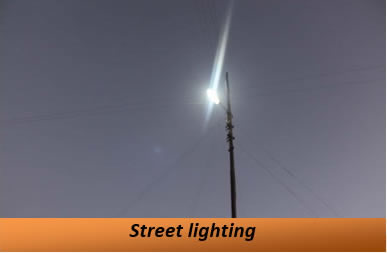
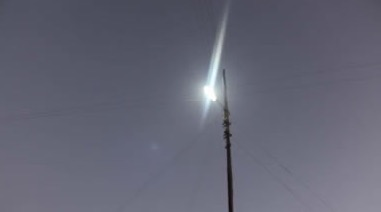
new changes by neped

Changed region(s): [[0.0, 0.0, 1.0, 1.0], [0.4908, 0.1698, 0.6063, 0.7075], [0.6063, 0.7358, 0.6352, 0.7925]]

diff --git a/src/pages/neped-energy/NepedEnergyImpactPage.tsx b/src/pages/neped-energy/NepedEnergyImpactPage.tsx
@@ -51,7 +51,7 @@ const THEMES: { id: string; eyebrow: string; title: string; stat: { value: strin
     stat: { value: "17,930 ha", label: "of arable and non-arable land treated under NEPED-III" },
     paragraphs: [
       "NEPED-III treated 17,930 hectares of arable and non-arable land with soil-erosion control measures, reforestation through natural regeneration, and enrichment planting. These activities also strengthened community biodiversity conservation — a direct bridge between land management and species protection.",
-      "Through the NEPED-SCEN programme (with SACON, funded by the Tata Trust), communities set aside areas within village lands as Community Conserved Areas, with village council resolutions restricting hunting, fishing and logging. NEPED supported the creation of biodiversity registers, resource maps and management plans, using the Blyth's Tragopan — the state bird of Nagaland — as a flagship species.",
+      "Through the NEPED-SCEN programme, communities set aside areas within village lands as Community Conserved Areas, with village council resolutions restricting hunting, fishing and logging. NEPED supported the creation of biodiversity registers, resource maps and management plans, using the Blyth's Tragopan — the state bird of Nagaland — as a flagship species.",
       "This work continues under NEPED-IV / Forest and Biodiversity Management in the Himalaya (Nagaland), funded by Germany through KfW, across 35 villages — strengthening community-conserved areas, improving forest connectivity and supporting sustainable livelihoods.",
     ],
   },
@@ -70,17 +70,6 @@ const THEMES: { id: string; eyebrow: string; title: string; stat: { value: strin
 
 const ROAD_AHEAD: { title: string; text: string; points: string[]; scaleUp: string; cta?: string }[] = [
   {
-    title: "Scale community energy across Nagaland's unelectrified villages",
-    text: "Nagaland has hundreds of villages — many along the Indo-Myanmar border — with no reliable grid connection. NEPeD's Hydroger is a proven, certified, locally manufactured solution. The gap is installation funding and the community-engagement process that makes each unit sustainable.",
-    points: [
-      "Proven technology (3 kW impulse Hydroger)",
-      "Proven ownership model (village energy committee, monthly revenue, local engineers)",
-      "30 new watermills/pico Hydrogers funded by the North Eastern Council (2025–26) — the current pipeline",
-    ],
-    scaleUp: "Move from pico-hydro (3 kW) to community mini-hydro (10–100 kW) in villages with higher-capacity streams, powering not just households but small enterprise clusters.",
-    cta: "Partner on community energy",
-  },
-  {
     title: "Deepen climate-resilient livelihoods and conservation",
     text: "NEPED-IV (Forest and Biodiversity Management, funded by KfW) is already active across 35 villages. The National Adaptation Fund for Climate Change (NAFCC) project runs through 2026. Beyond these, NEPED's three-phase track record in agro-forestry, watershed management and community conservation provides a ready-made platform for the next generation of climate and biodiversity funding.",
     points: [
@@ -91,6 +80,17 @@ const ROAD_AHEAD: { title: string; text: string; points: string[]; scaleUp: stri
     ],
     scaleUp: "Expand the CCA model to new districts, connect conservation with eco-tourism revenue, and strengthen community-based monitoring and reporting systems.",
     cta: "Partner on livelihoods and conservation",
+  },
+  {
+    title: "Scale community energy across Nagaland's unelectrified villages",
+    text: "Nagaland has hundreds of villages — many along the Indo-Myanmar border — with no reliable grid connection. NEPeD's Hydroger is a proven, certified, locally manufactured solution. The gap is installation funding and the community-engagement process that makes each unit sustainable.",
+    points: [
+      "Proven technology (3 kW impulse Hydroger)",
+      "Proven ownership model (village energy committee, monthly revenue, local engineers)",
+      "30 new watermills/pico Hydrogers funded by the North Eastern Council (2025–26) — the current pipeline",
+    ],
+    scaleUp: "Move from pico-hydro (3 kW) to community mini-hydro (10–100 kW) in villages with higher-capacity streams, powering not just households but small enterprise clusters.",
+    cta: "Partner on community energy",
   },
   {
     title: "Grow CERES as a regional renewable-energy hub",

diff --git a/src/pages/neped-energy/CaseStudyDetailPage.tsx b/src/pages/neped-energy/CaseStudyDetailPage.tsx
@@ -4,7 +4,7 @@ import { motion } from "framer-motion";
 import { ArrowLeft, ArrowRight } from "lucide-react";
 import { fadeUpOnView } from "@/lib/motionVariants";
 import { CASE_STUDIES } from "@/data/neped-energy/caseStudiesData";
-import { CASE_STUDY_PHOTOS } from "@/data/neped-energy/caseStudyPhotos";
+import { CASE_STUDY_PHOTOS, type CaseStudyPhoto } from "@/data/neped-energy/caseStudyPhotos";
 import { CASE_STUDY_FIVE_PARTS, type CaseStudyFiveParts } from "@/data/neped-energy/caseStudyFiveParts";
 import { NEPED_ENERGY_PATHS } from "@/routes/paths";
 import { ArrowPillButton } from "@/components/shared/ArrowPillButton";
@@ -71,9 +71,12 @@ export function CaseStudyDetailPage() {
         <motion.section {...fadeUpOnView} className="mx-auto max-w-[1200px] px-4 sm:px-6">
           <div className={`grid grid-cols-1 gap-4 sm:gap-5 ${photos.length > 1 ? "sm:grid-cols-2" : "max-w-[760px]"}`}>
             {photos.map((photo) => (
-              <div key={photo.src} className="overflow-hidden bg-[#F3F6F3] ring-1 ring-black/5">
-                <img src={photo.src} alt={photo.alt} className="aspect-[3/2] h-full w-full object-cover" />
-              </div>
+              <figure key={photo.src}>
+                <div className="overflow-hidden bg-[#F3F6F3] ring-1 ring-black/5">
+                  <img src={photo.src} alt={photo.alt} className="aspect-[3/2] h-full w-full object-cover" />
+                </div>
+                {photo.caption ? <figcaption className="mt-3 text-[15px] text-[#5B6660]">{photo.caption}</figcaption> : null}
+              </figure>
             ))}
           </div>
         </motion.section>
@@ -134,7 +137,7 @@ function PrevNext({ prev, next }: { prev: StudyLink; next: StudyLink }) {
 const EYEBROW = "text-[13px] font-semibold uppercase tracking-[0.14em]";
 
 /** Five-part case study: full-bleed photo hero, stat strip, then the five numbered parts. */
-function FivePartCaseStudy({ data, photos, prevNext }: { data: CaseStudyFiveParts; photos: { src: string; alt: string }[]; prevNext: React.ReactNode }) {
+function FivePartCaseStudy({ data, photos, prevNext }: { data: CaseStudyFiveParts; photos: CaseStudyPhoto[]; prevNext: React.ReactNode }) {
   const energy = data.lineage === "Energy Development";
   return (
     <div className="w-full space-y-16 sm:space-y-24 pb-24">
@@ -236,9 +239,12 @@ function FivePartCaseStudy({ data, photos, prevNext }: { data: CaseStudyFivePart
         <motion.section {...fadeUpOnView} className="mx-auto max-w-[1200px] px-4 sm:px-6">
           <div className={`grid grid-cols-1 gap-4 sm:gap-5 ${photos.length > 1 ? "sm:grid-cols-2" : "max-w-[760px]"}`}>
             {photos.map((photo) => (
-              <div key={photo.src} className="overflow-hidden bg-[#F3F6F3] ring-1 ring-black/5">
-                <img src={photo.src} alt={photo.alt} loading="lazy" className="aspect-[3/2] h-full w-full object-cover" />
-              </div>
+              <figure key={photo.src}>
+                <div className="overflow-hidden bg-[#F3F6F3] ring-1 ring-black/5">
+                  <img src={photo.src} alt={photo.alt} loading="lazy" className="aspect-[3/2] h-full w-full object-cover" />
+                </div>
+                {photo.caption ? <figcaption className="mt-3 text-[15px] text-[#5B6660]">{photo.caption}</figcaption> : null}
+              </figure>
             ))}
           </div>
         </motion.section>

diff --git a/src/pages/neped/NepedStructurePage.tsx b/src/pages/neped/NepedStructurePage.tsx
@@ -80,7 +80,7 @@ export function NepedStructurePage() {
           <div className="bg-[#F3F6F3] p-7 sm:p-10 space-y-6">
             <div>
               <SectionPill>Historical Archive</SectionPill>
-              <h3 className="text-[28px] font-light text-[#1A2E23] tracking-[-0.72px] mt-1">
+              <h3 className="text-[32px] sm:text-[40px] font-light text-[#1A2E23] tracking-[-0.9px] mt-1">
                 Past Team Leaders
               </h3>
             </div>
@@ -88,15 +88,15 @@ export function NepedStructurePage() {
               initialCount={5}
               showLabel="Show all past leaders"
               hideLabel="Show fewer past leaders"
-              className="grid grid-cols-1 lg:grid-cols-2 lg:gap-x-12 gap-y-4 pt-2"
+              className="grid grid-cols-1 lg:grid-cols-2 lg:gap-x-12 gap-y-5 pt-2"
             >
               {teamLeaders.map((lead) => (
                 <div
                   key={lead.name}
-                  className="flex items-center justify-between gap-4 border-b border-[#e5e4e4] pb-3"
+                  className="flex items-center justify-between gap-4 border-b border-[#e5e4e4] pb-4"
                 >
-                  <div className="flex items-center gap-3 min-w-0">
-                    <div className="h-10 w-10 rounded-full bg-[#e5e4e4] overflow-hidden shrink-0 flex items-center justify-center">
+                  <div className="flex items-center gap-4 min-w-0">
+                    <div className="h-14 w-14 sm:h-16 sm:w-16 rounded-full bg-[#e5e4e4] overflow-hidden shrink-0 flex items-center justify-center">
                       {lead.image ? (
                         <img
                           src={lead.image}
@@ -107,17 +107,17 @@ export function NepedStructurePage() {
                           }}
                         />
                       ) : (
-                        <span className="text-[11px] font-medium text-[#5B6660]">
+                        <span className="text-[15px] font-medium text-[#5B6660]">
                           {lead.name.replace(/^(Shri\.?|Late|Padmashree)\s*/i, "").charAt(0)}
                         </span>
                       )}
                     </div>
                     <div className="min-w-0">
-                      <h4 className="text-[15px] font-medium text-[#1A2E23] truncate">{lead.name}</h4>
-                      <span className="text-[12px] text-[#5B6660]">{lead.title}</span>
+                      <h4 className="text-[17px] sm:text-[18px] font-medium text-[#1A2E23] truncate">{lead.name}</h4>
+                      <span className="text-[14px] sm:text-[15px] text-[#5B6660]">{lead.title}</span>
                     </div>
                   </div>
-                  <span className="text-[12px] font-mono text-[#5B6660] shrink-0">{lead.period}</span>
+                  <span className="text-[13px] sm:text-[14px] font-mono text-[#5B6660] shrink-0">{lead.period}</span>
                 </div>
               ))}
             </MobileShowMore>

diff --git a/src/pages/neped/NepedAboutPage.tsx b/src/pages/neped/NepedAboutPage.tsx
@@ -12,7 +12,8 @@ const EYEBROW = "text-[13px] font-semibold uppercase tracking-[0.14em] text-[#1E
 const TIMELINE: { year: string; body: string; logo?: "neped" | "neped-energy" }[] = [
   { year: "Today", body: "One society across livelihoods, land and energy." },
   { year: "2019–present", body: "NEPED-IV / Forest & Biodiversity Management (KfW)." },
-  { year: "2007", body: "Energy Development branch established; CERES set up in Dimapur.", logo: "neped-energy" },
+  { year: "2009", body: "CERES established" },
+  { year: "2007", body: "NEPeD (Energy Development branch established)", logo: "neped-energy" },
   { year: "2006–2012", body: "NEPED-III: watershed development (Min. of Agriculture)." },
   { year: "2001–2006", body: "NEPED-II: cash crops & micro-finance (ICEF/CIDA)." },
   { year: "1995–2000", body: "NEPED-I: tree-planting on jhum land (ICEF/CIDA)." },
@@ -135,7 +136,7 @@ export function NepedAboutPage() {
               The first phase was called Nagaland Environment Protection and Economic Development through People's Action. From the second phase, the society became known as Nagaland Empowerment of People through Economic Development.
             </p>
             <p>
-              As the livelihood work deepened, one need surfaced everywhere: energy. So in 2007 the society established an energy branch — Nagaland Empowerment of People through Energy Development — and set up CERES, its Centre of Excellence for Renewable Energy Studies, in Dimapur. The branch carries its own name and logo, but it is run by the same team, from the same office, under the same Team Leader.
+              As the livelihood work deepened, one need surfaced everywhere: energy. So in 2007 the society established an energy branch — Nagaland Empowerment of People through Energy Development — and in 2009 set up CERES, its Centre of Excellence for Renewable Energy Studies, in Dimapur. The branch carries its own name and logo, but it is run by the same team, from the same office, under the same Team Leader.
             </p>
             <p className="border-t-2 border-[#E8A33D] pt-7 font-serif text-[22px] sm:text-[26px] leading-[1.45] text-[#12432E]">
               The society had extended its reach, but it had not divided. That is why the acronym never changed. Today the 1995 society works across livelihoods, land and energy as a single NEPED, from Nagaland's forests to its rivers.

diff --git a/src/data/neped-energy/caseStudyPhotos.ts b/src/data/neped-energy/caseStudyPhotos.ts
@@ -2,17 +2,31 @@
  * NEPeD case study photos: public/<slug>/ (one folder per case study, added by the NEPeD team).
  * Alt text = the file name. The first photo is the one in front on the case study card.
  */
-export type CaseStudyPhoto = { src: string; alt: string };
+/** caption = text shown under the photo (the caption that was burned into each image, now cropped off) */
+export type CaseStudyPhoto = { src: string; alt: string; caption?: string };
 
-const photo = (slug: string, file: string): CaseStudyPhoto => ({
+const photo = (slug: string, file: string, caption?: string): CaseStudyPhoto => ({
   src: `/${slug}/${file}`,
-  alt: file.replace(/\.[a-z]+$/i, "").replace(/\d+$/, ""),
+  alt: caption ?? file.replace(/\.[a-z]+$/i, "").replace(/\d+$/, ""),
+  caption,
 });
 
 export const CASE_STUDY_PHOTOS: Record<string, CaseStudyPhoto[]> = {
-  kingjung: [photo("kingjung", "Night View of Kingjung Village.jpg"), photo("kingjung", "Street lighting.jpg")],
-  kingpao: [photo("kingpao", "kingpao.jpg"), photo("kingpao", "Rural Engineer after installation.jpg")],
-  pang: [photo("pang", "Villagers transporting hydroger1.jpg")],
-  aniashu: [photo("aniashu", "installation in progress.jpg"), photo("aniashu", "ForebayPond.jpg")],
-  kaha: [photo("kaha", "Villagers transporting hydroger.jpg"), photo("kaha", "Powerhouse.jpg")],
+  kingjung: [
+    photo("kingjung", "Night View of Kingjung Village.jpg", "Night View of Kingjung Village lighted by hydroger"),
+    photo("kingjung", "Street lighting.jpg", "Street lighting"),
+  ],
+  kingpao: [
+    photo("kingpao", "kingpao.jpg", "Kingpao village"),
+    photo("kingpao", "Rural Engineer after installation.jpg", "Rural Engineer after installation"),
+  ],
+  pang: [photo("pang", "Villagers transporting hydroger1.jpg", "Villagers transporting hydroger")],
+  aniashu: [
+    photo("aniashu", "installation in progress.jpg", "Installation in progress"),
+    photo("aniashu", "ForebayPond.jpg", "Desilting/Forebay pond"),
+  ],
+  kaha: [
+    photo("kaha", "Villagers transporting hydroger.jpg", "Villagers transporting hydroger"),
+    photo("kaha", "Powerhouse.jpg", "Powerhouse"),
+  ],
 };

diff --git a/src/components/neped/ProjectTimeline.tsx b/src/components/neped/ProjectTimeline.tsx
@@ -89,13 +89,13 @@ export function ProjectTimeline() {
 
 // Logos of the funders in the project list (public/logos). No Ministry of Textiles logo yet.
 const FUNDERS: Logo[] = [
-  { alt: "Canadian International Development Agency (CIDA)", src: "/logos/cida.jpeg", className: "max-h-12 max-w-[128px]" },
-  { alt: "Ministry of Agriculture & Farmers Welfare, GoI", src: "/logos/ministry-of-agriculture.jpeg", className: "max-h-12 max-w-[132px]" },
-  { alt: "Sir Dorabji Tata Trust", src: "/logos/sir-dorabji-tata-trust.jpeg", className: "max-h-12 max-w-[92px] scale-[1.28]" },
-  { alt: "Tata Trusts", src: "/logos/tata-trusts.jpeg", className: "max-h-10 max-w-[132px]" },
-  { alt: "Ministry of New and Renewable Energy (MNRE), GoI", src: "/logos/mnre.jpeg", className: "max-h-12 max-w-[132px]" },
-  { alt: "North Eastern Council (NEC)", src: "/logos/nec.jpeg", className: "max-h-14 max-w-[72px]" },
-  { alt: "KfW", src: "/logos/kfw.jpeg", className: "max-h-11 max-w-[132px]" },
+  { alt: "Canadian International Development Agency (CIDA)", src: "/logos/cida.jpeg", className: "max-h-[72px] max-w-[192px]" },
+  { alt: "Ministry of Agriculture & Farmers Welfare, GoI", src: "/logos/ministry-of-agriculture.jpeg", className: "max-h-[72px] max-w-[198px]" },
+  { alt: "Sir Dorabji Tata Trust", src: "/logos/sir-dorabji-tata-trust.jpeg", className: "max-h-[72px] max-w-[138px] scale-[1.28]" },
+  { alt: "Tata Trusts", src: "/logos/tata-trusts.jpeg", className: "max-h-[60px] max-w-[198px]" },
+  { alt: "Ministry of New and Renewable Energy (MNRE), GoI", src: "/logos/mnre.jpeg", className: "max-h-[72px] max-w-[198px]" },
+  { alt: "North Eastern Council (NEC)", src: "/logos/nec.jpeg", className: "max-h-[84px] max-w-[108px]" },
+  { alt: "KfW", src: "/logos/kfw.jpeg", className: "max-h-[66px] max-w-[198px]" },
 ];
 
 /** "Funded & trusted by" logo grid under the homepage projects section; the label fills the first cell. */

diff --git a/src/pages/neped/ProjectsPage.tsx b/src/pages/neped/ProjectsPage.tsx
@@ -12,7 +12,7 @@ const GLASS_CARD =
 const CURRENT_WORK = [
   {
     title: "Land, water & biodiversity",
-    text: "with SACON and SDTT, helping villages create Community Conserved Areas, biodiversity registers and management plans, using the Blyth's Tragopan (the state bird) as a flagship species.",
+    text: "Helping villages strengthen Community Conserved Areas, biodiversity registers, and management plans, using the Blyth’s Tragopan (the state bird) as a flagship species.",
   },
   {
     title: "Livelihoods & enterprise",
@@ -92,10 +92,10 @@ export function ProjectsPage() {
         <ol className="lg:col-span-8 grid grid-cols-1 sm:grid-cols-2 gap-x-8">
           {CURRENT_WORK.map((item, i) => (
             <li key={item.title} className="flex gap-4 border-t border-[#e5e4e4] py-5">
-              <span className="w-8 shrink-0 font-serif text-[22px] leading-none text-[#8A5A12]">{String(i + 1).padStart(2, "0")}</span>
+              <span className="w-9 shrink-0 font-serif text-[26px] leading-none text-[#8A5A12]">{String(i + 1).padStart(2, "0")}</span>
               <div>
-                <h3 className="text-[15px] font-semibold text-[#1A2E23]">{item.title}</h3>
-                <p className="mt-1 text-[13.5px] leading-snug text-[#5B6660]">{item.text}</p>
+                <h3 className="text-[17px] sm:text-[18px] font-semibold text-[#1A2E23]">{item.title}</h3>
+                <p className="mt-1.5 text-[16px] sm:text-[17px] leading-relaxed text-[#5B6660]">{item.text}</p>
               </div>
             </li>
           ))}

diff --git a/src/data/neped/projectList.ts b/src/data/neped/projectList.ts
@@ -16,7 +16,7 @@ export const PROJECT_LIST: ProjectListItem[] = [
   { name: "Handicraft / NTFP / Emporia", focus: "", period: "2021–2025", funder: "Ministry of Textiles, GoI", theme: "Livelihoods" },
   { name: "NEPED-IV / FBMP", focus: "Forest & biodiversity (35 villages)", period: "2019–present", funder: "Federal Republic of Germany via KfW", theme: "Conservation" },
   { name: "NAFCC", focus: "Climate adaptation", period: "2018–2026", funder: "Ministry of Agriculture, GoI", theme: "Conservation" },
-  { name: "Development of Hydrogen", focus: "", period: "2017–2019", funder: "NEC", theme: "Energy" },
+  { name: "Development of Hydroger", focus: "", period: "2017–2019", funder: "NEC", theme: "Energy" },
   { name: "Pico Hydroger/Watermill installation (30 nos)", focus: "", period: "2015–2016", funder: "MNRE, GoI", theme: "Energy" },
   { name: "Community-based piggery", focus: "", period: "2012–2016", funder: "Navajbhai Ratan Tata Trust (NRTT)", theme: "Livelihoods" },
   { name: "NEPED-SCEN", focus: "Community Conserved Areas", period: "2007–2010", funder: "Sir Dorabji Tata Trust (SDTT)", theme: "Conservation" },

diff --git a/src/components/ui/logo-cloud-2.tsx b/src/components/ui/logo-cloud-2.tsx
@@ -43,7 +43,7 @@ export function LogoCloud({ logos, lead, className, ...props }: LogoCloudProps) 
           <div
             key={i}
             className={cn(
-              "relative flex h-28 items-center justify-center px-4 md:h-32 md:px-8",
+              "relative flex h-36 items-center justify-center px-4 md:h-44 md:px-8",
               base.alt ? "bg-[#ffffff]" : "bg-[#ffffff]",
               md.alt ? "md:bg-[#ffffff]" : "md:bg-[#ffffff]",
             )}

diff --git a/src/components/neped/NepedFooter.tsx b/src/components/neped/NepedFooter.tsx
@@ -94,7 +94,7 @@ export function NepedFooter({ onOpenContact }: { onOpenContact: () => void }) {
                   </li>
                   <li>
                     <Link to={NEPED_PATHS.phase("neped-scen")} className="hover:text-[#E8A33D] transition-colors">
-                      NEPED-SCEN (SACON)
+                      NEPED-SCEN
                     </Link>
                   </li>
                 </ul>
